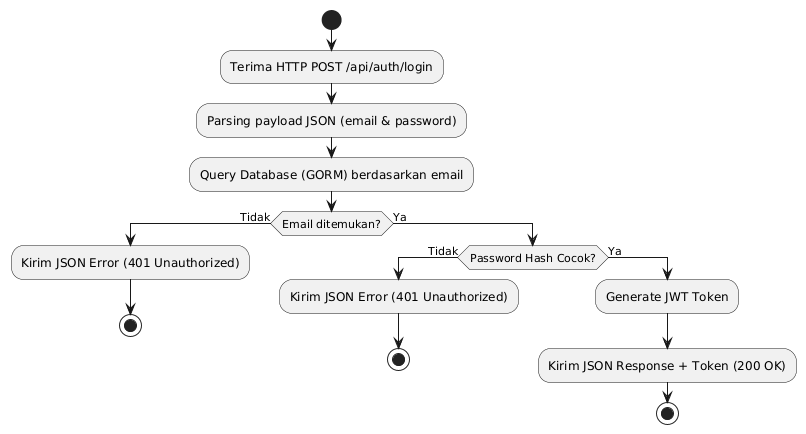
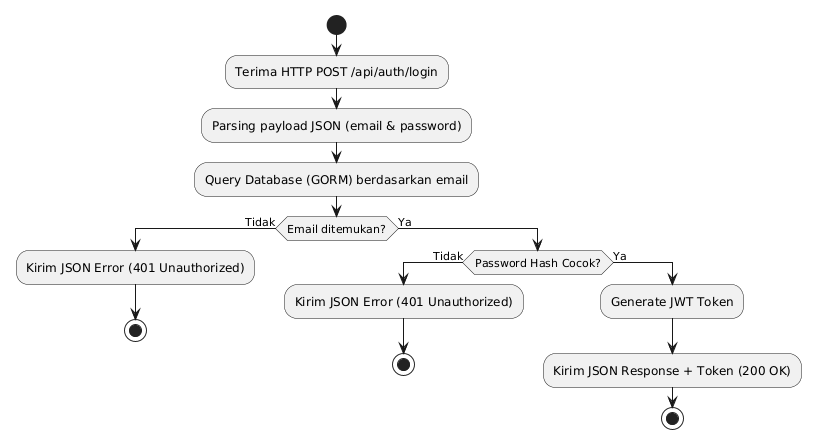
fix: correct loop syntax in faris_activity plantuml to prevent line cutoff

Changed region(s): [[0.0, 0.3594, 0.9926, 0.9885], [0.2171, 0.0, 0.5893, 0.3594], [0.2171, 0.3594, 0.2481, 0.3894]]

diff --git a/BAB_IV/diagrams/gen_uml.py b/BAB_IV/diagrams/gen_uml.py
@@ -59,18 +59,17 @@ start
 :Input Data Anak & Orang Tua;
 :Klik "Submit";
 |Sistem|
-if (Apakah ada data kosong?) then (Ya)
+while (Apakah ada data kosong?) is (Ya)
   :Tampilkan pesan error warna merah;
   |Orang Tua|
   :Perbaiki Input;
   :Klik "Submit";
-else (Tidak)
   |Sistem|
-  :Validasi ke server;
-  :Proses Pendaftaran Berhasil;
-  :Tampilkan Halaman Sukses;
-  stop
-endif
+endwhile (Tidak)
+:Validasi ke server;
+:Proses Pendaftaran Berhasil;
+:Tampilkan Halaman Sukses;
+stop
 @enduml""",
 
     "rahwul_activity.png": """@startuml
